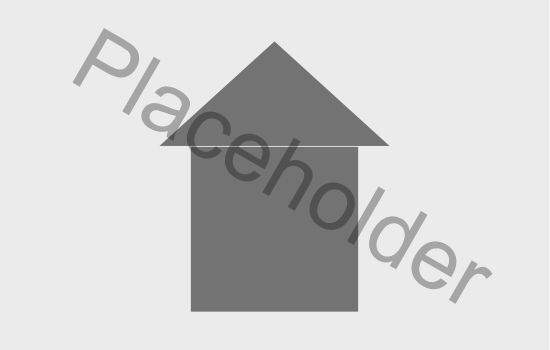
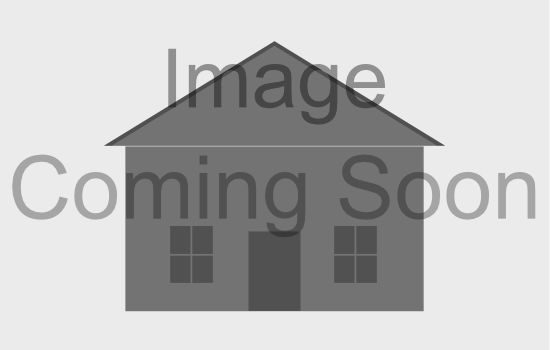
Added Google Analytics and image missing photo

Changed region(s): [[0.0, 0.0857, 0.9891, 0.9143]]

diff --git a/property.html b/property.html
@@ -126,6 +126,16 @@
 				<a class="exit-off-canvas"></a>
 			</div>
 		</div>
+		<script>
+		  (function(i,s,o,g,r,a,m){i['GoogleAnalyticsObject']=r;i[r]=i[r]||function(){
+		  (i[r].q=i[r].q||[]).push(arguments)},i[r].l=1*new Date();a=s.createElement(o),
+		  m=s.getElementsByTagName(o)[0];a.async=1;a.src=g;m.parentNode.insertBefore(a,m)
+		  })(window,document,'script','//www.google-analytics.com/analytics.js','ga');
+
+		  ga('create', 'UA-59981393-1', 'auto');
+		  ga('send', 'pageview');
+
+		</script>
 		<script src="js/foundation/foundation.js"></script>
   		<script src="js/foundation/foundation.reveal.js"></script>
   		<script src="js/foundation/foundation.clearing.js"></script>

diff --git a/index.html b/index.html
@@ -119,6 +119,16 @@
 				<a class="exit-off-canvas"></a>
 			</div>
 		</div>
+		<script>
+		  (function(i,s,o,g,r,a,m){i['GoogleAnalyticsObject']=r;i[r]=i[r]||function(){
+		  (i[r].q=i[r].q||[]).push(arguments)},i[r].l=1*new Date();a=s.createElement(o),
+		  m=s.getElementsByTagName(o)[0];a.async=1;a.src=g;m.parentNode.insertBefore(a,m)
+		  })(window,document,'script','//www.google-analytics.com/analytics.js','ga');
+
+		  ga('create', 'UA-59981393-1', 'auto');
+		  ga('send', 'pageview');
+
+		</script>
 		<script src="js/foundation/foundation.js"></script>
 		<script src="js/foundation/foundation.offcanvas.js"></script>
 		<script src="js/foundation/foundation.topbar.js"></script>

diff --git a/properties.html b/properties.html
@@ -91,6 +91,16 @@
 				<a class="exit-off-canvas"></a>
 			</div>
 		</div>
+		<script>
+		  (function(i,s,o,g,r,a,m){i['GoogleAnalyticsObject']=r;i[r]=i[r]||function(){
+		  (i[r].q=i[r].q||[]).push(arguments)},i[r].l=1*new Date();a=s.createElement(o),
+		  m=s.getElementsByTagName(o)[0];a.async=1;a.src=g;m.parentNode.insertBefore(a,m)
+		  })(window,document,'script','//www.google-analytics.com/analytics.js','ga');
+
+		  ga('create', 'UA-59981393-1', 'auto');
+		  ga('send', 'pageview');
+
+		</script>
 		<script src="js/foundation/foundation.js"></script>
   		<script src="js/foundation/foundation.reveal.js"></script>
 		<script src="js/foundation/foundation.offcanvas.js"></script>

diff --git a/style/general.css b/style/general.css
@@ -73,6 +73,10 @@
 	color: #FF940E;
 }
 
+#properties-main h2 a:hover {
+	color: rgb(254, 201, 134);
+}
+
 /*Alt for dimming the top layer of a div*/
 /*#lucky-products:after {
   content: " ";
